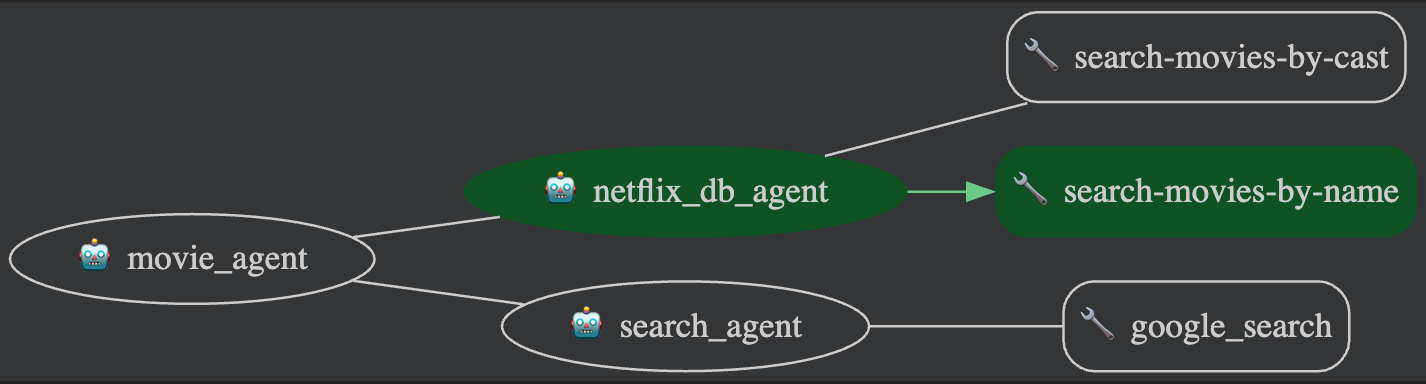
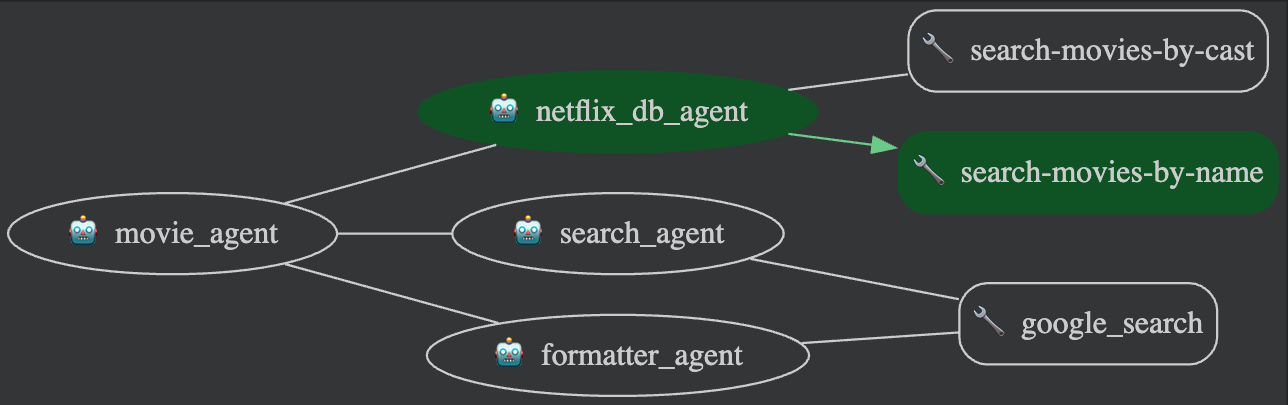
v0.2 formatter agent & saved info to states

diff --git a/sub_agents/formatter_agent/agent.py b/sub_agents/formatter_agent/agent.py
@@ -1,0 +1,75 @@
+from google.adk.agents import Agent
+from google.adk.tools import google_search  # Import the tool
+
+from . import prompt
+
+formatter_agent = Agent(
+   # A unique name for the agent.
+   name="formatter_agent",
+   # The Large Language Model (LLM) that agent will use.
+   model="gemini-2.0-flash-exp", # Google AI Studio
+   #model="gemini-2.0-flash-live-preview-04-09" # Vertex AI Studio
+   # A short description of the agent's purpose.
+   description="Agent to answer questions using Google Search.",
+   # Instructions to set the agent's behavior.
+   instruction=prompt.PROMPT,
+   # Add google_search tool to perform grounding with Google search.
+   tools=[google_search]
+)
+
+# root_agent = search_agent
+
+
+# from google.adk import Agent
+# from google.adk.agents.callback_context import CallbackContext
+# from google.adk.models import LlmResponse
+# from google.adk.tools import google_search
+# from google.genai import types
+
+# from . import prompt
+
+
+# def _render_reference(
+#     callback_context: CallbackContext,
+#     llm_response: LlmResponse,
+# ) -> LlmResponse:
+#     """Appends grounding references to the response."""
+#     del callback_context
+#     if (
+#         not llm_response.content or
+#         not llm_response.content.parts or
+#         not llm_response.grounding_metadata
+#     ):
+#         return llm_response
+#     references = []
+#     for chunk in llm_response.grounding_metadata.grounding_chunks or []:
+#         title, uri, text = '', '', ''
+#         if chunk.retrieved_context:
+#             title = chunk.retrieved_context.title
+#             uri = chunk.retrieved_context.uri
+#             text = chunk.retrieved_context.text
+#         elif chunk.web:
+#             title = chunk.web.title
+#             uri = chunk.web.uri
+#         parts = [s for s in (title, text) if s]
+#         if uri and parts:
+#             parts[0] = f'[{parts[0]}]({uri})'
+#         if parts:
+#             references.append('* ' + ': '.join(parts) + '\n')
+#     if references:
+#         reference_text = ''.join(['\n\nReference:\n\n'] + references)
+#         llm_response.content.parts.append(types.Part(text=reference_text))
+#     if all(part.text is not None for part in llm_response.content.parts):
+#         all_text = '\n'.join(part.text for part in llm_response.content.parts)
+#         llm_response.content.parts[0].text = all_text
+#         del llm_response.content.parts[1:]
+#     return llm_response
+
+
+# search_agent = Agent(
+#     model='gemini-2.0-flash',
+#     name='search_agent',
+#     instruction=prompt.PROMPT,
+#     tools=[google_search],
+#     after_model_callback=_render_reference,
+# )

diff --git a/sub_agents/search_agent/prompt.py b/sub_agents/search_agent/prompt.py
@@ -2,5 +2,13 @@
 PROMPT = """
     You are given a movie name, and you need to find the information about the movie.
     Only answer the question based on the information provided, and do not make up any information.
+    Please provide the following specific details for the movie :
+
+    * US Box Office Gross
+    * Global Box Office Gross
+    * Rotten Tomatoes Score (Tomatometer - Critics)
+    * Rotten Tomatoes Critical Consensus or a brief summary of the evaluation.
     
 """
+
+

diff --git a/agent.py b/agent.py
@@ -1,7 +1,7 @@
 from google.adk.agents import SequentialAgent
 from .sub_agents.netflix_db.agent import netflix_db_agent
 from .sub_agents.search_agent.agent import search_agent
-
+from .sub_agents.formatter_agent.agent import formatter_agent
 
 from . import prompt
 
@@ -13,6 +13,7 @@ root_agent = SequentialAgent(
     sub_agents=[
         netflix_db_agent,
         search_agent,
+        formatter_agent,
     ],
 )
 

diff --git a/sub_agents/formatter_agent/prompt.py b/sub_agents/formatter_agent/prompt.py
@@ -1,0 +1,11 @@
+
+PROMPT = """
+    Combine the information from state['netflix_record'] and the public information from state['internet_info'] into the final Markdown format response with the following format:
+    # Movie Title
+    # Summary
+    # Cast
+    # Director
+    # Release Date
+    # Rating
+    # Public Information
+"""

diff --git a/sub_agents/search_agent/agent.py b/sub_agents/search_agent/agent.py
@@ -14,5 +14,7 @@ search_agent = Agent(
    # Instructions to set the agent's behavior.
    instruction=prompt.PROMPT,
    # Add google_search tool to perform grounding with Google search.
-   tools=[google_search]
+   tools=[google_search],
+   output_key="internet_info",  # Save result to state
 )
+

diff --git a/prompt.py b/prompt.py
@@ -1,8 +1,4 @@
-
-
-
 ROOT_PROMPT = """
    Evaluates LLM-generated answers, verifies actual accuracy using the web, 
    and refines the response to ensure alignment with real-world knowledge.
 """
-

diff --git a/sub_agents/netflix_db/prompt.py b/sub_agents/netflix_db/prompt.py
@@ -1,4 +1,6 @@
 
 PROMPT = """
     You are a helpful agent who can answer user questions about the movies by cast or movies by name. Use the tools to answer the question
+
+
 """

diff --git a/sub_agents/netflix_db/agent.py b/sub_agents/netflix_db/agent.py
@@ -16,4 +16,5 @@ netflix_db_agent = Agent(
     ),
     instruction=prompt.PROMPT,  
     tools=tools,
+    output_key="netflix_record",  # Save result to state
 )

diff --git a/README.md b/README.md
@@ -11,7 +11,8 @@ Root agent will sequentially call sub agents to provide information.
 
 *   **netflix_db_agent** agent use [MCP toolbox](https://github.com/googleapis/genai-toolbox) to query postgresql
     * netflix sample database: https://www.kaggle.com/datasets/shivamb/netflix-shows
-*   **search_agent** agent use built-in google search to provide movie information 
+*   **search_agent** agent use built-in google search to provide movie information, like US Box Office Gross
+*   **formatter_agent** combines the records from netflix_db_agent & the public info from search_agent, and output them in markdown
     
 
 This sample agent enables a user to query movie on netflix and agent
@@ -68,4 +69,4 @@ ls ~/go/bin/genai-toolbox
 ## Result
 
 
-![screenshot](static/demo1.png)
+![screenshot](static/demo2.png)
